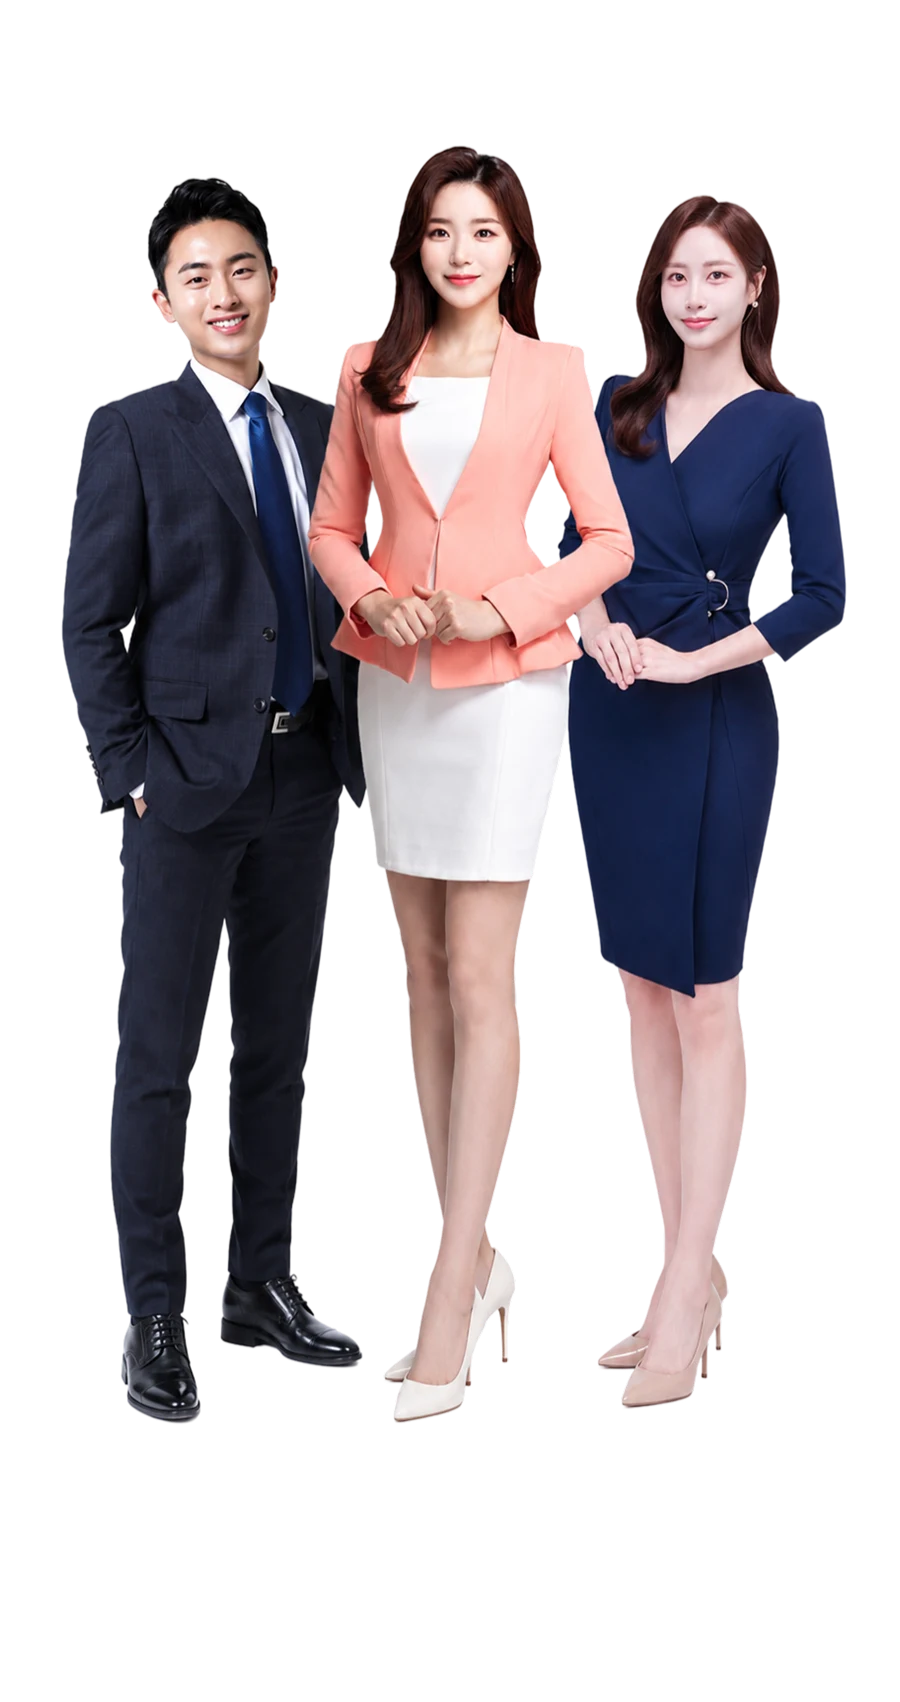
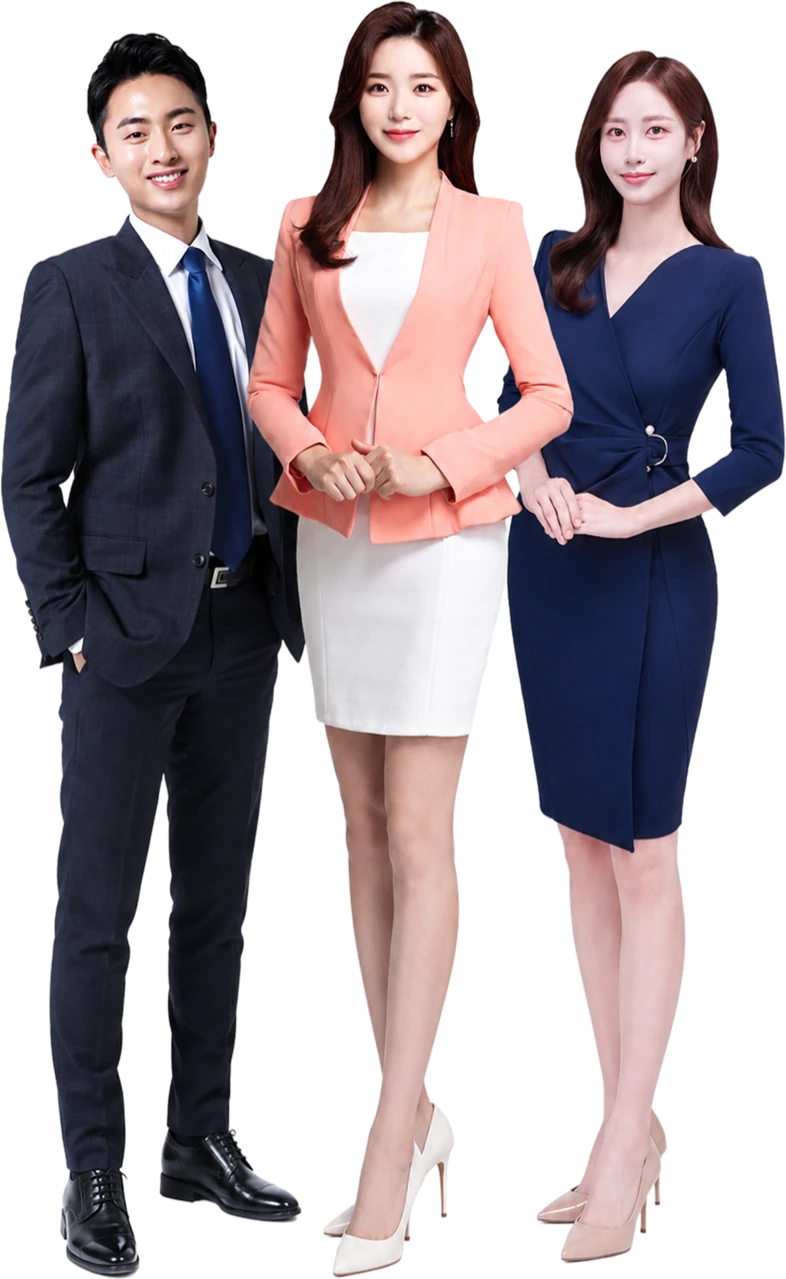
등급 선택 — 인물 확대(투명여백 제거), 등급별 높이 분리, 프리미엄 제목 월계수
- 원본 PNG 투명 여백 제거: 프리미엄 900x1702 → 786x1279, 스탠다드 700x1324 → 274x990.
  같은 표시 높이에서도 인물이 훨씬 크게 보인다.
- 인물 높이를 등급별로 분리. 스탠다드 78%(1명이라 폭 여유), 프리미엄 53%.
  프리미엄은 세 사람 머리가 폭의 11~91% 에 걸쳐 있어 53% 를 넘기면 양옆 두 명이 잘려나간다.
- 프리미엄 제목 좌우에 금색 월계수(#86909C → #E3C169 치환).

diff --git a/apps/web/src/app/wedding-mc/page.tsx b/apps/web/src/app/wedding-mc/page.tsx
@@ -1352,6 +1352,8 @@ const TIER_OPTIONS: {
   strikePrice?: string;
   desc: string;
   image: string;
+  /** 인물 이미지 높이(화면 대비). 프리미엄은 3명이 나란히 있어 더 키우면 양옆이 잘려나간다 */
+  imageHeight: string;
 }[] = [
   {
     key: '스탠다드 사회자',
@@ -1360,6 +1362,7 @@ const TIER_OPTIONS: {
     price: '19만 9,000원',
     desc: '프리티풀이 엄선한\n스탠다드 사회자',
     image: '/images/wedding-mc/tier-standard.webp',
+    imageHeight: '78%',
   },
   {
     key: '프리미엄 사회자',
@@ -1369,6 +1372,7 @@ const TIER_OPTIONS: {
     strikePrice: '49만 9,000원',
     desc: '어디서도 만나볼 수 없는\n방송사 3사 출신 포함\n경력 7년 이상의 베테랑\n프리미엄 사회자',
     image: '/images/wedding-mc/tier-premium.webp',
+    imageHeight: '53%',
   },
 ];
 
@@ -1444,7 +1448,10 @@ function TierScreen({ onSelect, onBack }: { onSelect: (tier: McTier) => void; on
             )}
 
             {/* ── 인물 — 화면의 70%, 좌우·아래는 잘려도 된다 ── */}
-            <span className="pointer-events-none absolute bottom-0 left-1/2 h-[70%] -translate-x-1/2">
+            <span
+              className="pointer-events-none absolute bottom-0 left-1/2 -translate-x-1/2"
+              style={{ height: opt.imageHeight }}
+            >
               <img
                 src={opt.image}
                 alt=""
@@ -1478,12 +1485,21 @@ function TierScreen({ onSelect, onBack }: { onSelect: (tier: McTier) => void; on
                 {opt.eyebrow}
               </span>
 
-              <span
-                className={`mt-2 text-[24px] font-extrabold leading-tight ${
-                  premium ? 'wmc-gold-text' : 'wmc-silver-text'
-                }`}
-              >
-                {opt.title}
+              {/* 프리미엄은 제목 좌우에 금색 월계수 */}
+              <span className="mt-2 flex items-center justify-center gap-2">
+                {premium && (
+                  <img src="/images/wedding-mc/tier-ornament-left.svg" alt="" className="h-[30px] w-auto" />
+                )}
+                <span
+                  className={`text-[24px] font-extrabold leading-tight ${
+                    premium ? 'wmc-gold-text' : 'wmc-silver-text'
+                  }`}
+                >
+                  {opt.title}
+                </span>
+                {premium && (
+                  <img src="/images/wedding-mc/tier-ornament-right.svg" alt="" className="h-[30px] w-auto" />
+                )}
               </span>
 
               <span className={`mt-3.5 h-px w-8 ${premium ? 'bg-[#C9A227]/50' : 'bg-white/25'}`} />
